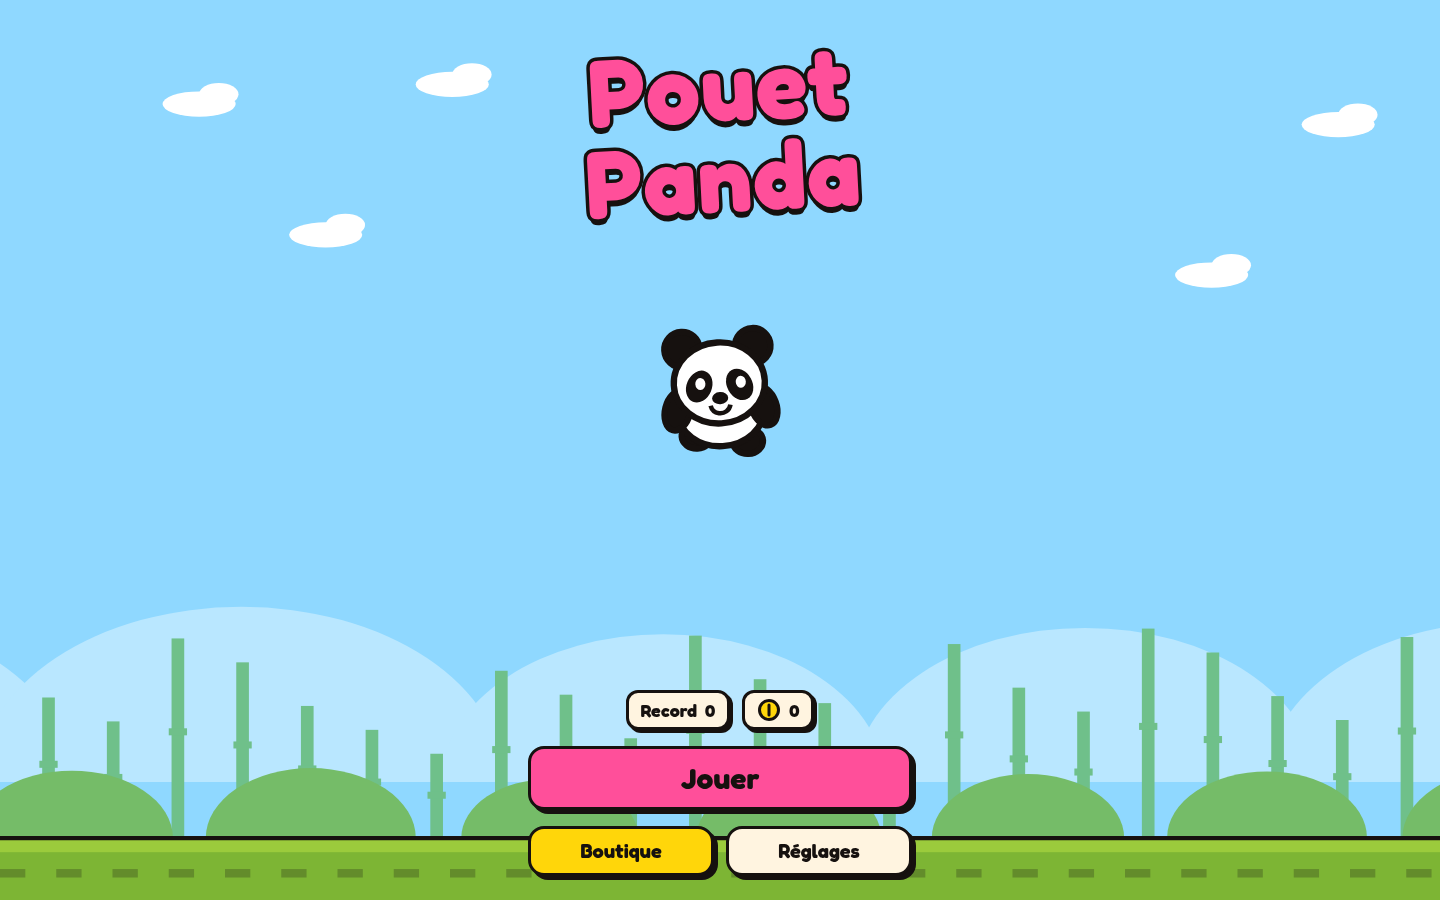
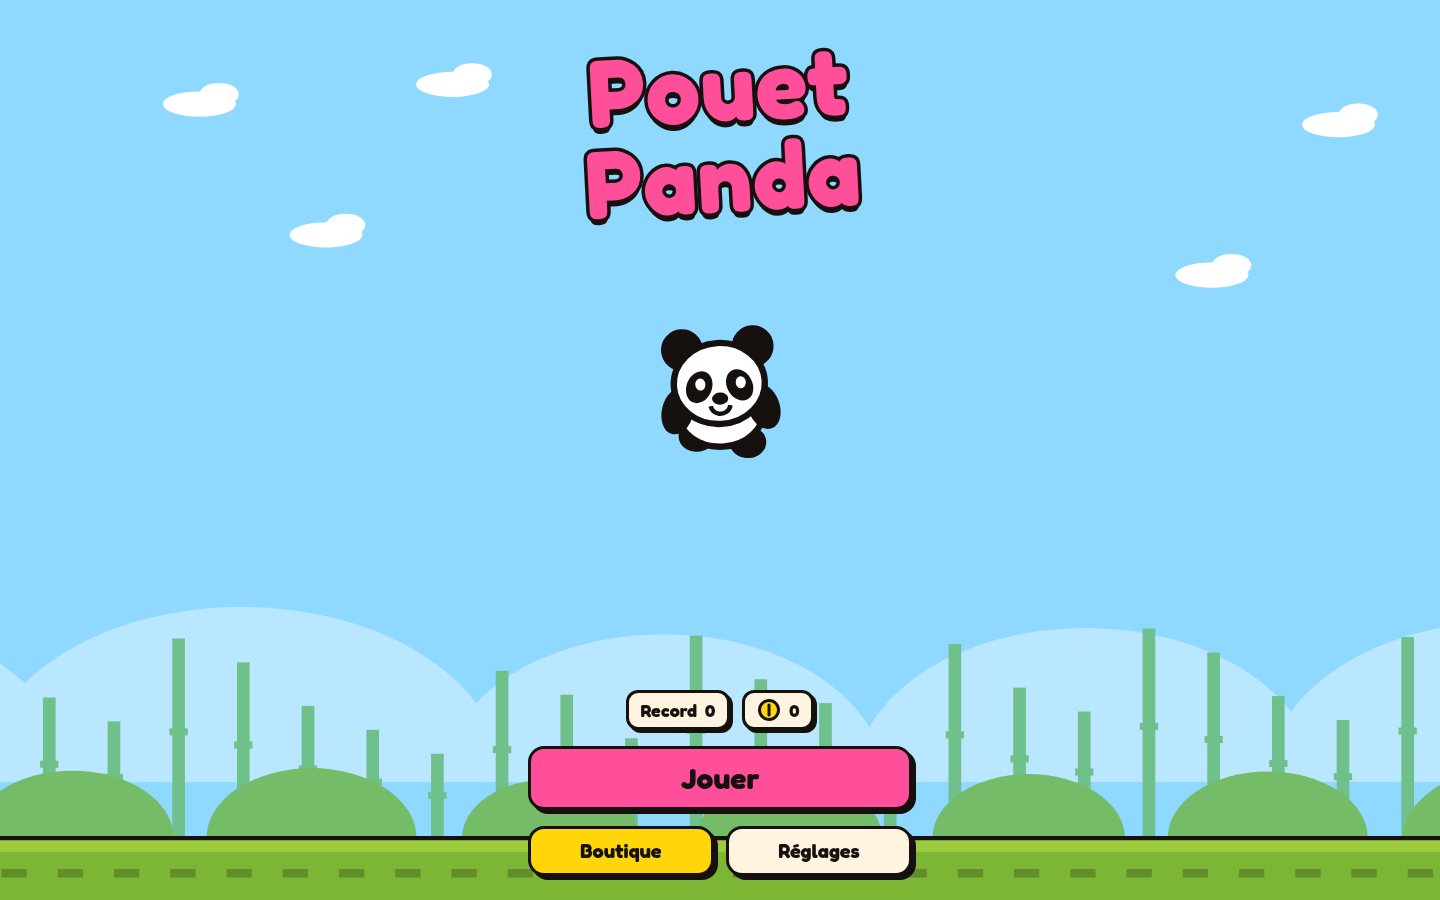
fix(menu): chips et boutons passent à la ligne, menu défilable à zoom 200 %

Changed region(s): [[0.4688, 0.4356, 0.5312, 0.4667]]

diff --git a/index.html b/index.html
@@ -50,10 +50,10 @@
   <div id="hint-box" hidden class="pointer-events-none absolute inset-x-0 top-[58%] flex justify-center px-4"><p id="hint" class="hint-bob panel px-5 py-2 text-center text-2xl font-bold">Touche l'écran pour péter !</p></div>
 
   <!-- Menu -->
-  <section id="menu" class="absolute inset-0 flex flex-col items-center justify-between px-5 pb-[max(1.5rem,env(safe-area-inset-bottom))] pt-[max(1.5rem,env(safe-area-inset-top))]" aria-labelledby="menu-title">
+  <section id="menu" class="absolute inset-0 overflow-y-auto flex flex-col items-center justify-between px-5 pb-[max(1.5rem,env(safe-area-inset-bottom))] pt-[max(1.5rem,env(safe-area-inset-top))]" aria-labelledby="menu-title">
     <h1 id="menu-title" tabindex="-1" class="logo -rotate-3 pt-4 text-center text-[clamp(2.25rem,min(19vw,13svh),6rem)] sm:text-[clamp(3rem,min(15vw,13svh),6rem)]">Pouet<br>Panda</h1>
     <div class="flex w-full max-w-sm flex-col items-center gap-4">
-      <div class="flex gap-3">
+      <div class="flex flex-wrap justify-center gap-3">
         <p class="chip">Record <span id="menu-best">0</span></p>
         <p class="chip">
           <svg class="h-6 w-6" viewBox="0 0 24 24" aria-hidden="true"><circle cx="12" cy="12" r="9.5" fill="#FFD60A" stroke="#16110F" stroke-width="3"/><path d="M12 7v10" stroke="#16110F" stroke-width="3" stroke-linecap="round"/></svg>
@@ -61,9 +61,9 @@
         </p>
       </div>
       <button id="btn-play" type="button" class="btn btn-big w-full">Jouer</button>
-      <div class="flex w-full gap-3">
-        <button id="btn-shop" type="button" class="btn btn-sun flex-1">Boutique</button>
-        <button id="btn-settings" type="button" class="btn btn-cream flex-1">Réglages</button>
+      <div class="flex w-full flex-wrap gap-3">
+        <button id="btn-shop" type="button" class="btn btn-sun flex-auto">Boutique</button>
+        <button id="btn-settings" type="button" class="btn btn-cream flex-auto">Réglages</button>
       </div>
     </div>
   </section>
